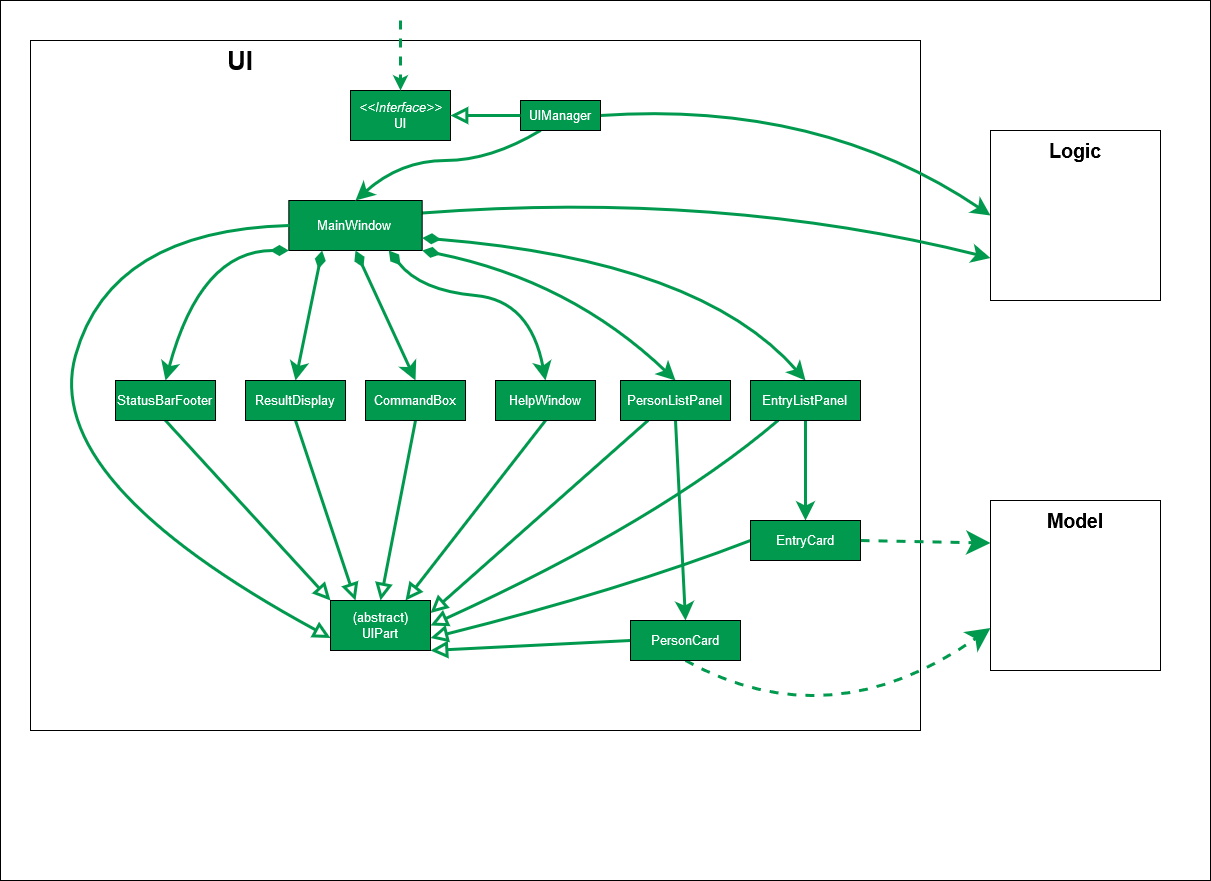
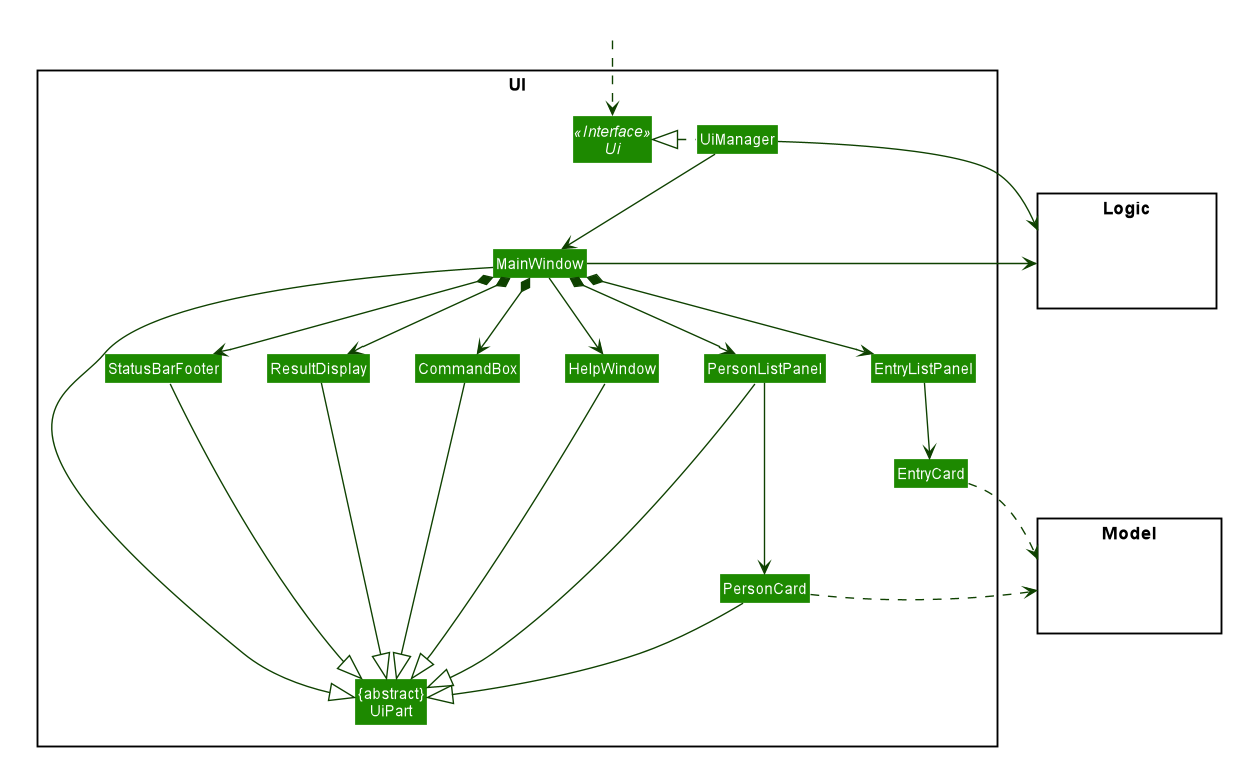
Update diagrams in DG

diff --git a/docs/DeveloperGuide.md b/docs/DeveloperGuide.md
@@ -80,7 +80,7 @@ The `UI` component,
 **API** :
 [`Logic.java`](https://github.com/se-edu/addressbook-level3/tree/master/src/main/java/seedu/address/logic/Logic.java)
 
-1. `Logic` uses the `AddressBookParser` class to parse the user command.
+1. `Logic` uses the `CommandParser` class to parse the user command.
 1. This results in a `Command` object which is executed by the `LogicManager`.
 1. The command execution can affect the `Model` (e.g. adding a person).
 1. The result of the command execution is encapsulated as a `CommandResult` object which is passed back to the `Ui`.
@@ -103,12 +103,19 @@ The `Model`,
 
 * stores a `UserPref` object that represents the user’s preferences.
 * stores the address book data.
-* exposes an unmodifiable `ObservableList<Person>` that can be 'observed' e.g. the UI can be bound to this list so that the UI automatically updates when the data in the list change.
-* does not depend on any of the other three components.
+* stores the journal data. 
+* exposes an unmodifiable `ObservableList<Person>` and `ObservableList<Entry>` that can be 'observed', e.g. the UI
+ can be bound to this list so that the UI automatically updates when the data in the list change.
+* does not depend on any of the other four components.
 
 
 <div markdown="span" class="alert alert-info">:information_source: **Note:** An alternative (arguably, a more OOP) model is given below. It has a `Tag` list in the `AddressBook`, which `Person` references. This allows `AddressBook` to only require one `Tag` object per unique `Tag`, instead of each `Person` needing their own `Tag` object.<br>
 ![BetterModelClassDiagram](images/BetterModelClassDiagram.png)
+
+Similarly, an alternative model for the Journal is given below. Like the model above, it has a `Tag` list in the
+ `Journal`, which `Entry` references, allowing `Journal` to only require one `Tag` object per unique `Tag`, instead
+  of each `Entry` needing their own `Tag` object. 
+![BetterModelEntryClassDiagram](images/BetterModelEntryClassDiagram.png)
 
 </div>
 
@@ -122,6 +129,7 @@ The `Model`,
 The `Storage` component,
 * can save `UserPref` objects in json format and read it back.
 * can save the address book data in json format and read it back.
+* can save the journal data in json format and read it back. 
 
 ### Common classes
 
